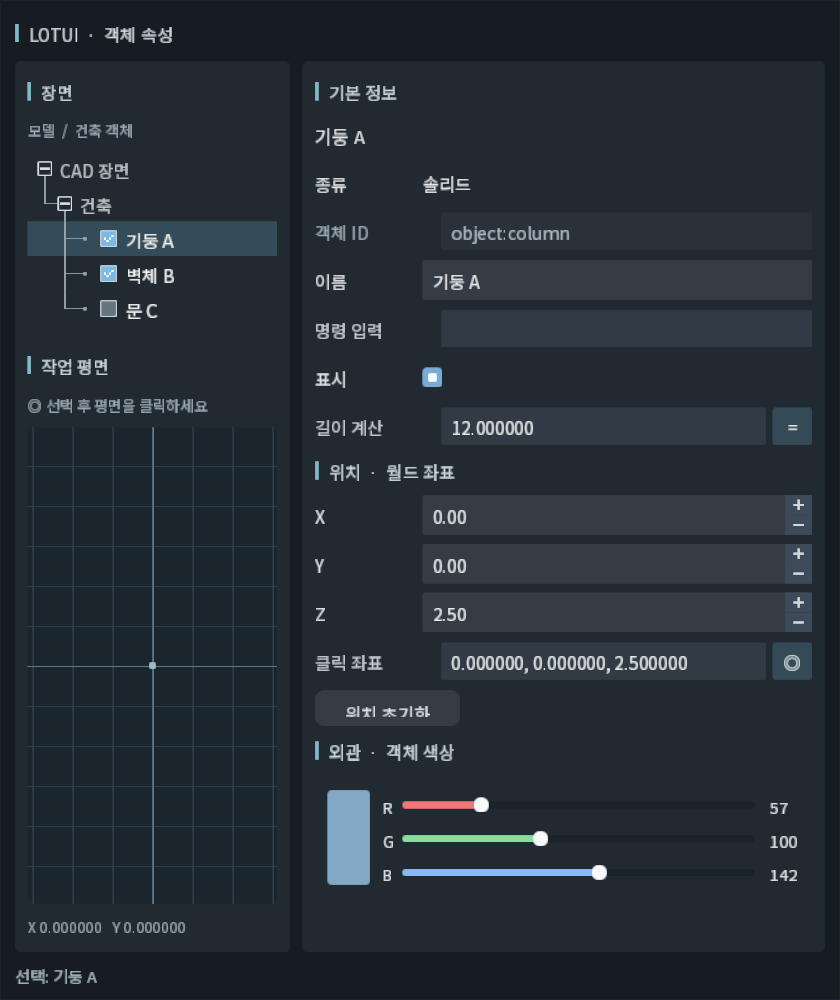
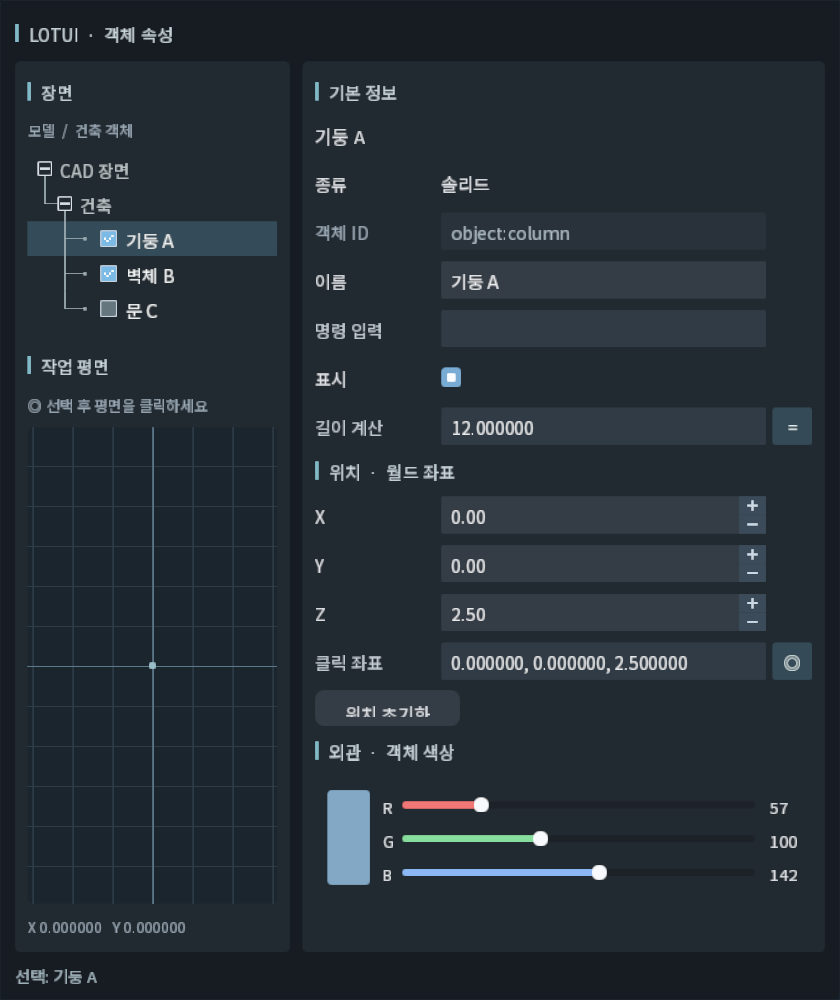
Align CAD inspector sample property inputs

diff --git a/examples/cad_inspector_demo/main.cpp b/examples/cad_inspector_demo/main.cpp
@@ -284,18 +284,19 @@ struct InspectorState {
 
 std::unique_ptr<lotui::Row> fieldRow(
     const std::shared_ptr<const lotui::TextEngine>& text,
-    std::string title, std::unique_ptr<lotui::Widget> control,
-    float rowHeight = 32.0F) {
+    std::string title, std::unique_ptr<lotui::Widget> control) {
     auto row = std::make_unique<lotui::Row>();
     lotui::LinearLayoutOptions options;
-    options.spacing = 8.0F;
+    options.spacing = 5.0F;
     options.crossAxisAlignment = lotui::CrossAxisAlignment::Center;
     row->setOptions(options);
     row->addChild(label(text, std::move(title)),
-        {0.0F, {78.0F, rowHeight}, {78.0F, rowHeight}});
+        {0.0F, {96.0F, 30.0F}, {96.0F, 30.0F}});
     row->addChild(std::move(control),
-        {1.0F, {180.0F, rowHeight},
-            {lotui::unboundedLayoutSize, rowHeight}});
+        {1.0F, {180.0F, 30.0F},
+            {lotui::unboundedLayoutSize, 30.0F}});
+    row->addChild(label(text, ""),
+        {0.0F, {32.0F, 30.0F}, {32.0F, 30.0F}});
     return row;
 }
 
@@ -548,6 +549,20 @@ std::unique_ptr<lotui::WidgetTree> buildUi(InspectorState& state) {
 
 void selfTest(lotui::WidgetTree& widgets, InspectorState& state,
         lotui::Size viewport) {
+    const auto reference = state.lengthField->input().bounds();
+    const auto aligned = [&](lotui::Rect rect) {
+        return std::abs(rect.x - reference.x) < 0.1F &&
+            std::abs(rect.width - reference.width) < 0.1F &&
+            std::abs(rect.height - reference.height) < 0.1F;
+    };
+    if (!aligned(state.idField->input().bounds()) ||
+        !aligned(state.commandField->input().bounds()) ||
+        !aligned(state.nameField->bounds()) ||
+        !aligned(state.pointField->input().bounds()) ||
+        !aligned(state.positionFields[0]->bounds()) ||
+        !aligned(state.positionFields[1]->bounds()) ||
+        !aligned(state.positionFields[2]->bounds()))
+        throw std::runtime_error("property inputs must share x, width and height");
     if (state.nameField->bounds().x +
             state.nameField->bounds().width > viewport.width - 10.0F ||
         state.colorField->bounds().y +
